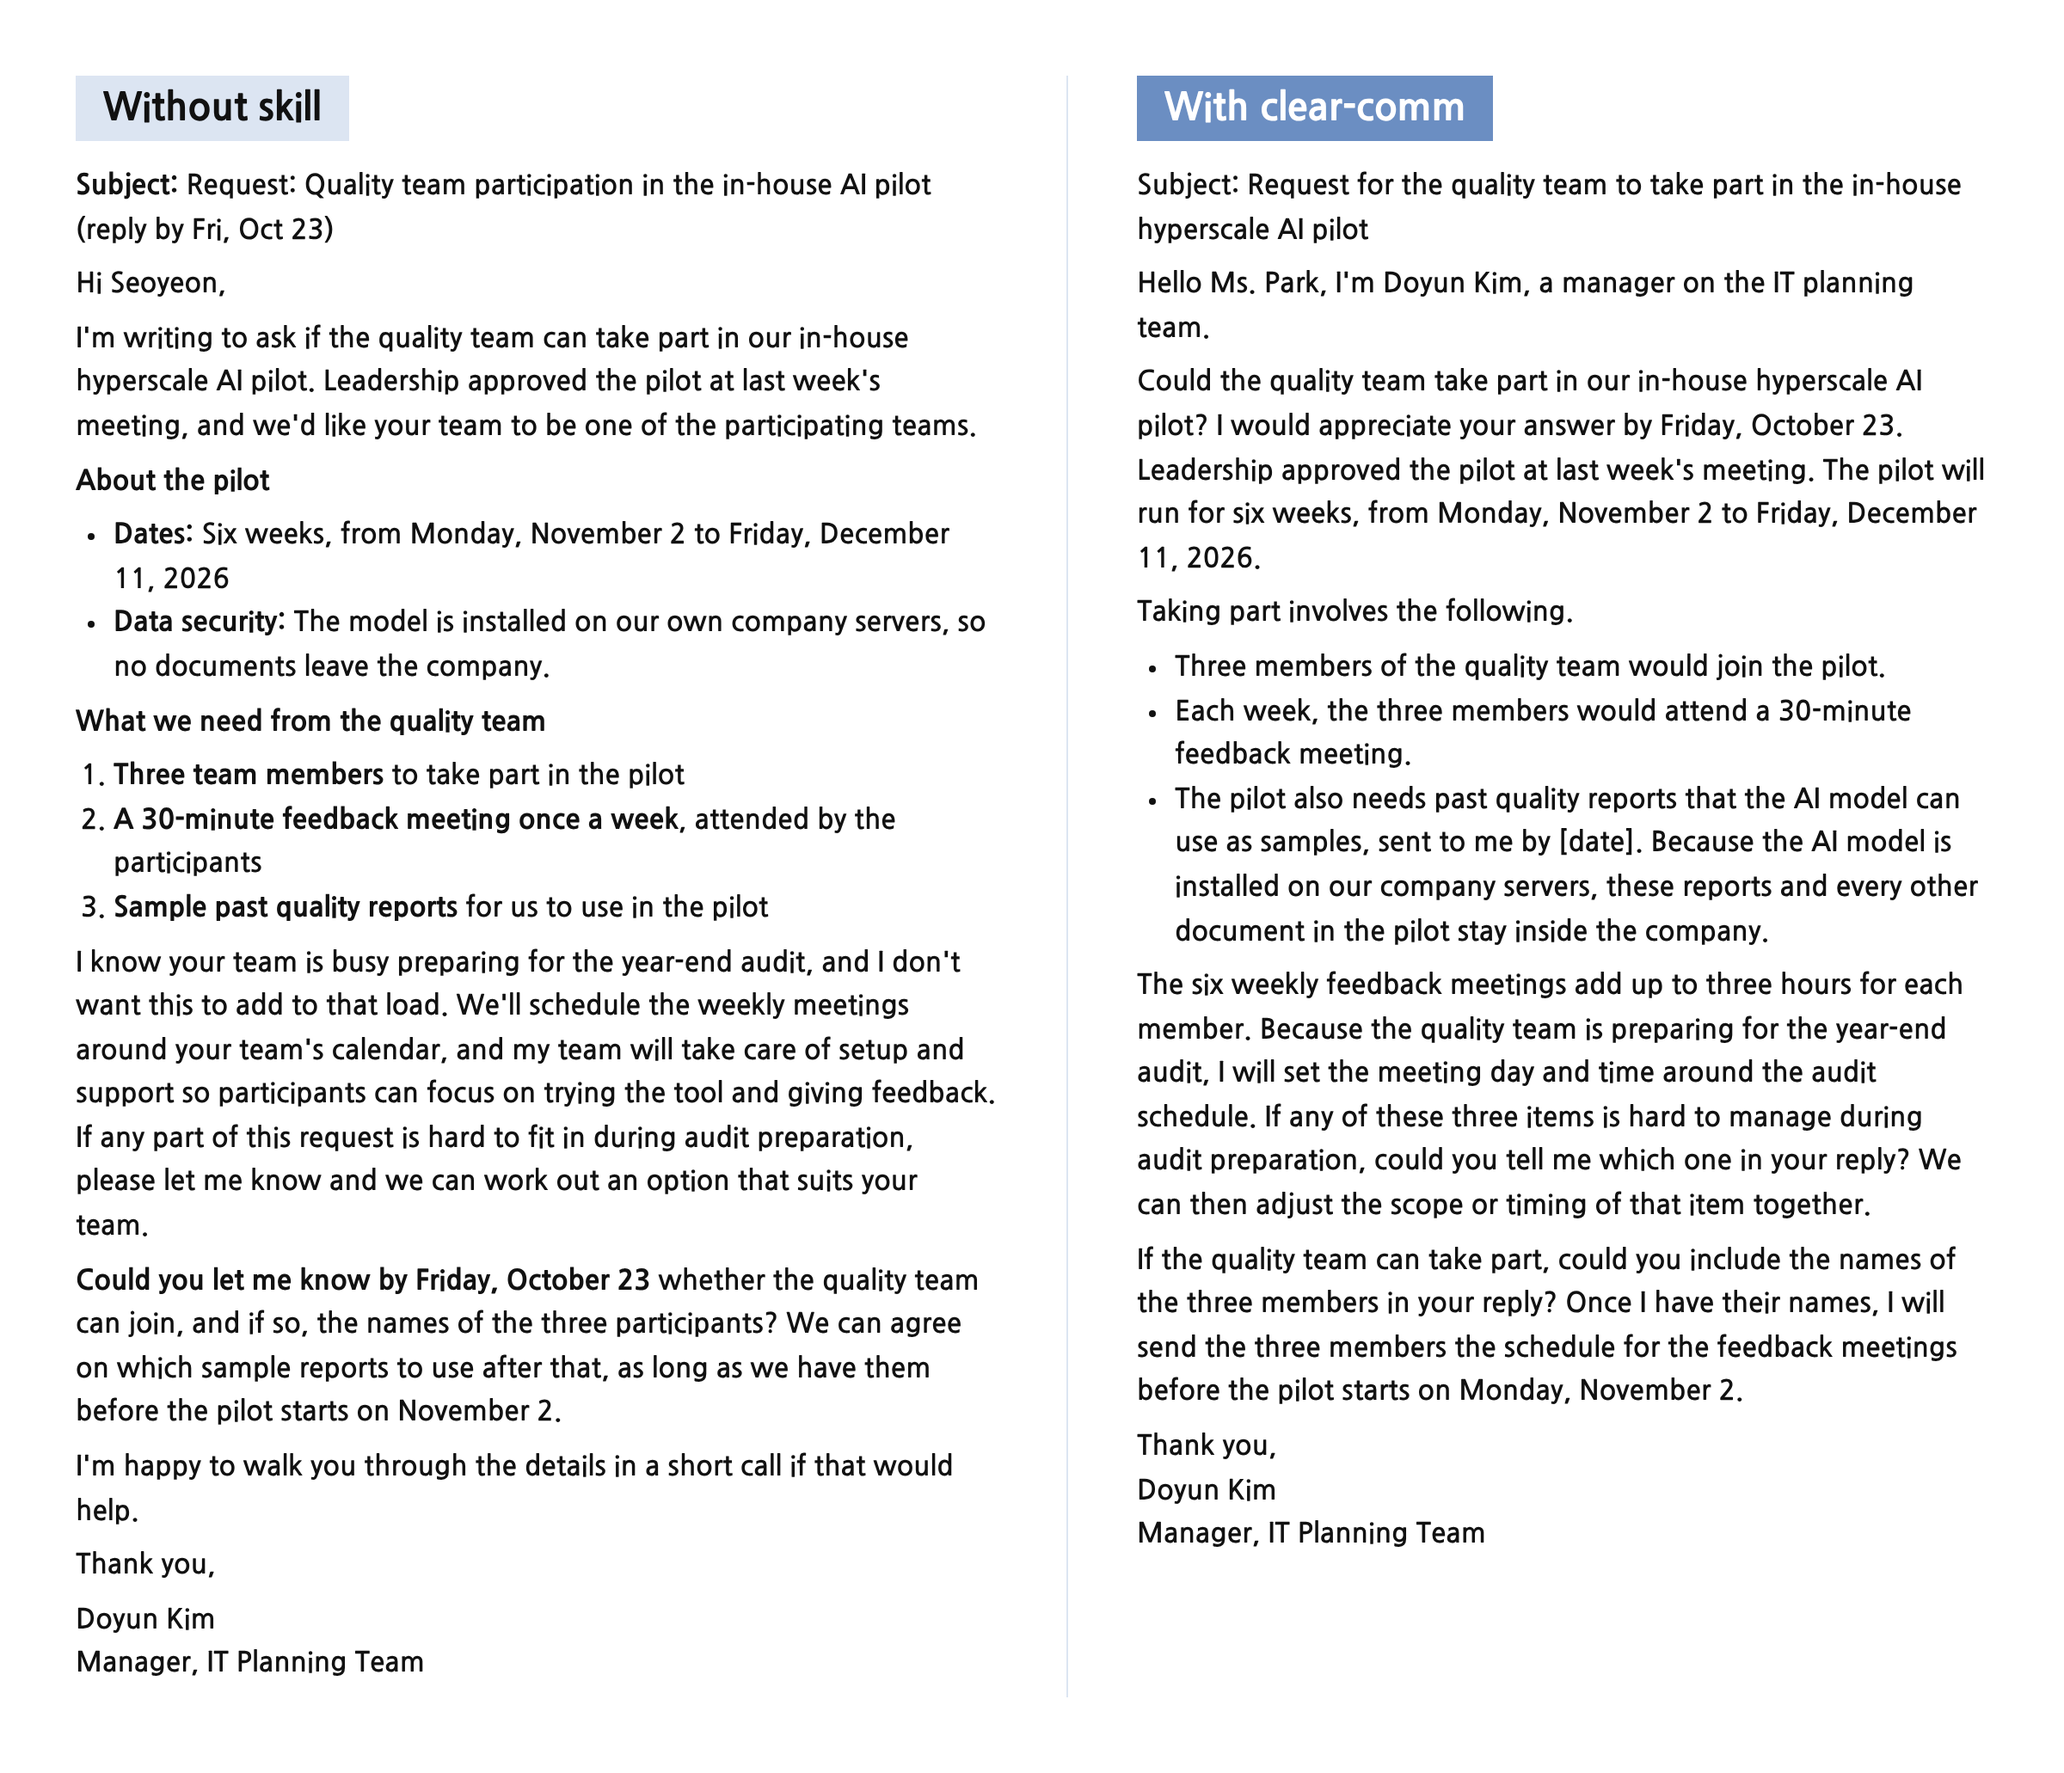
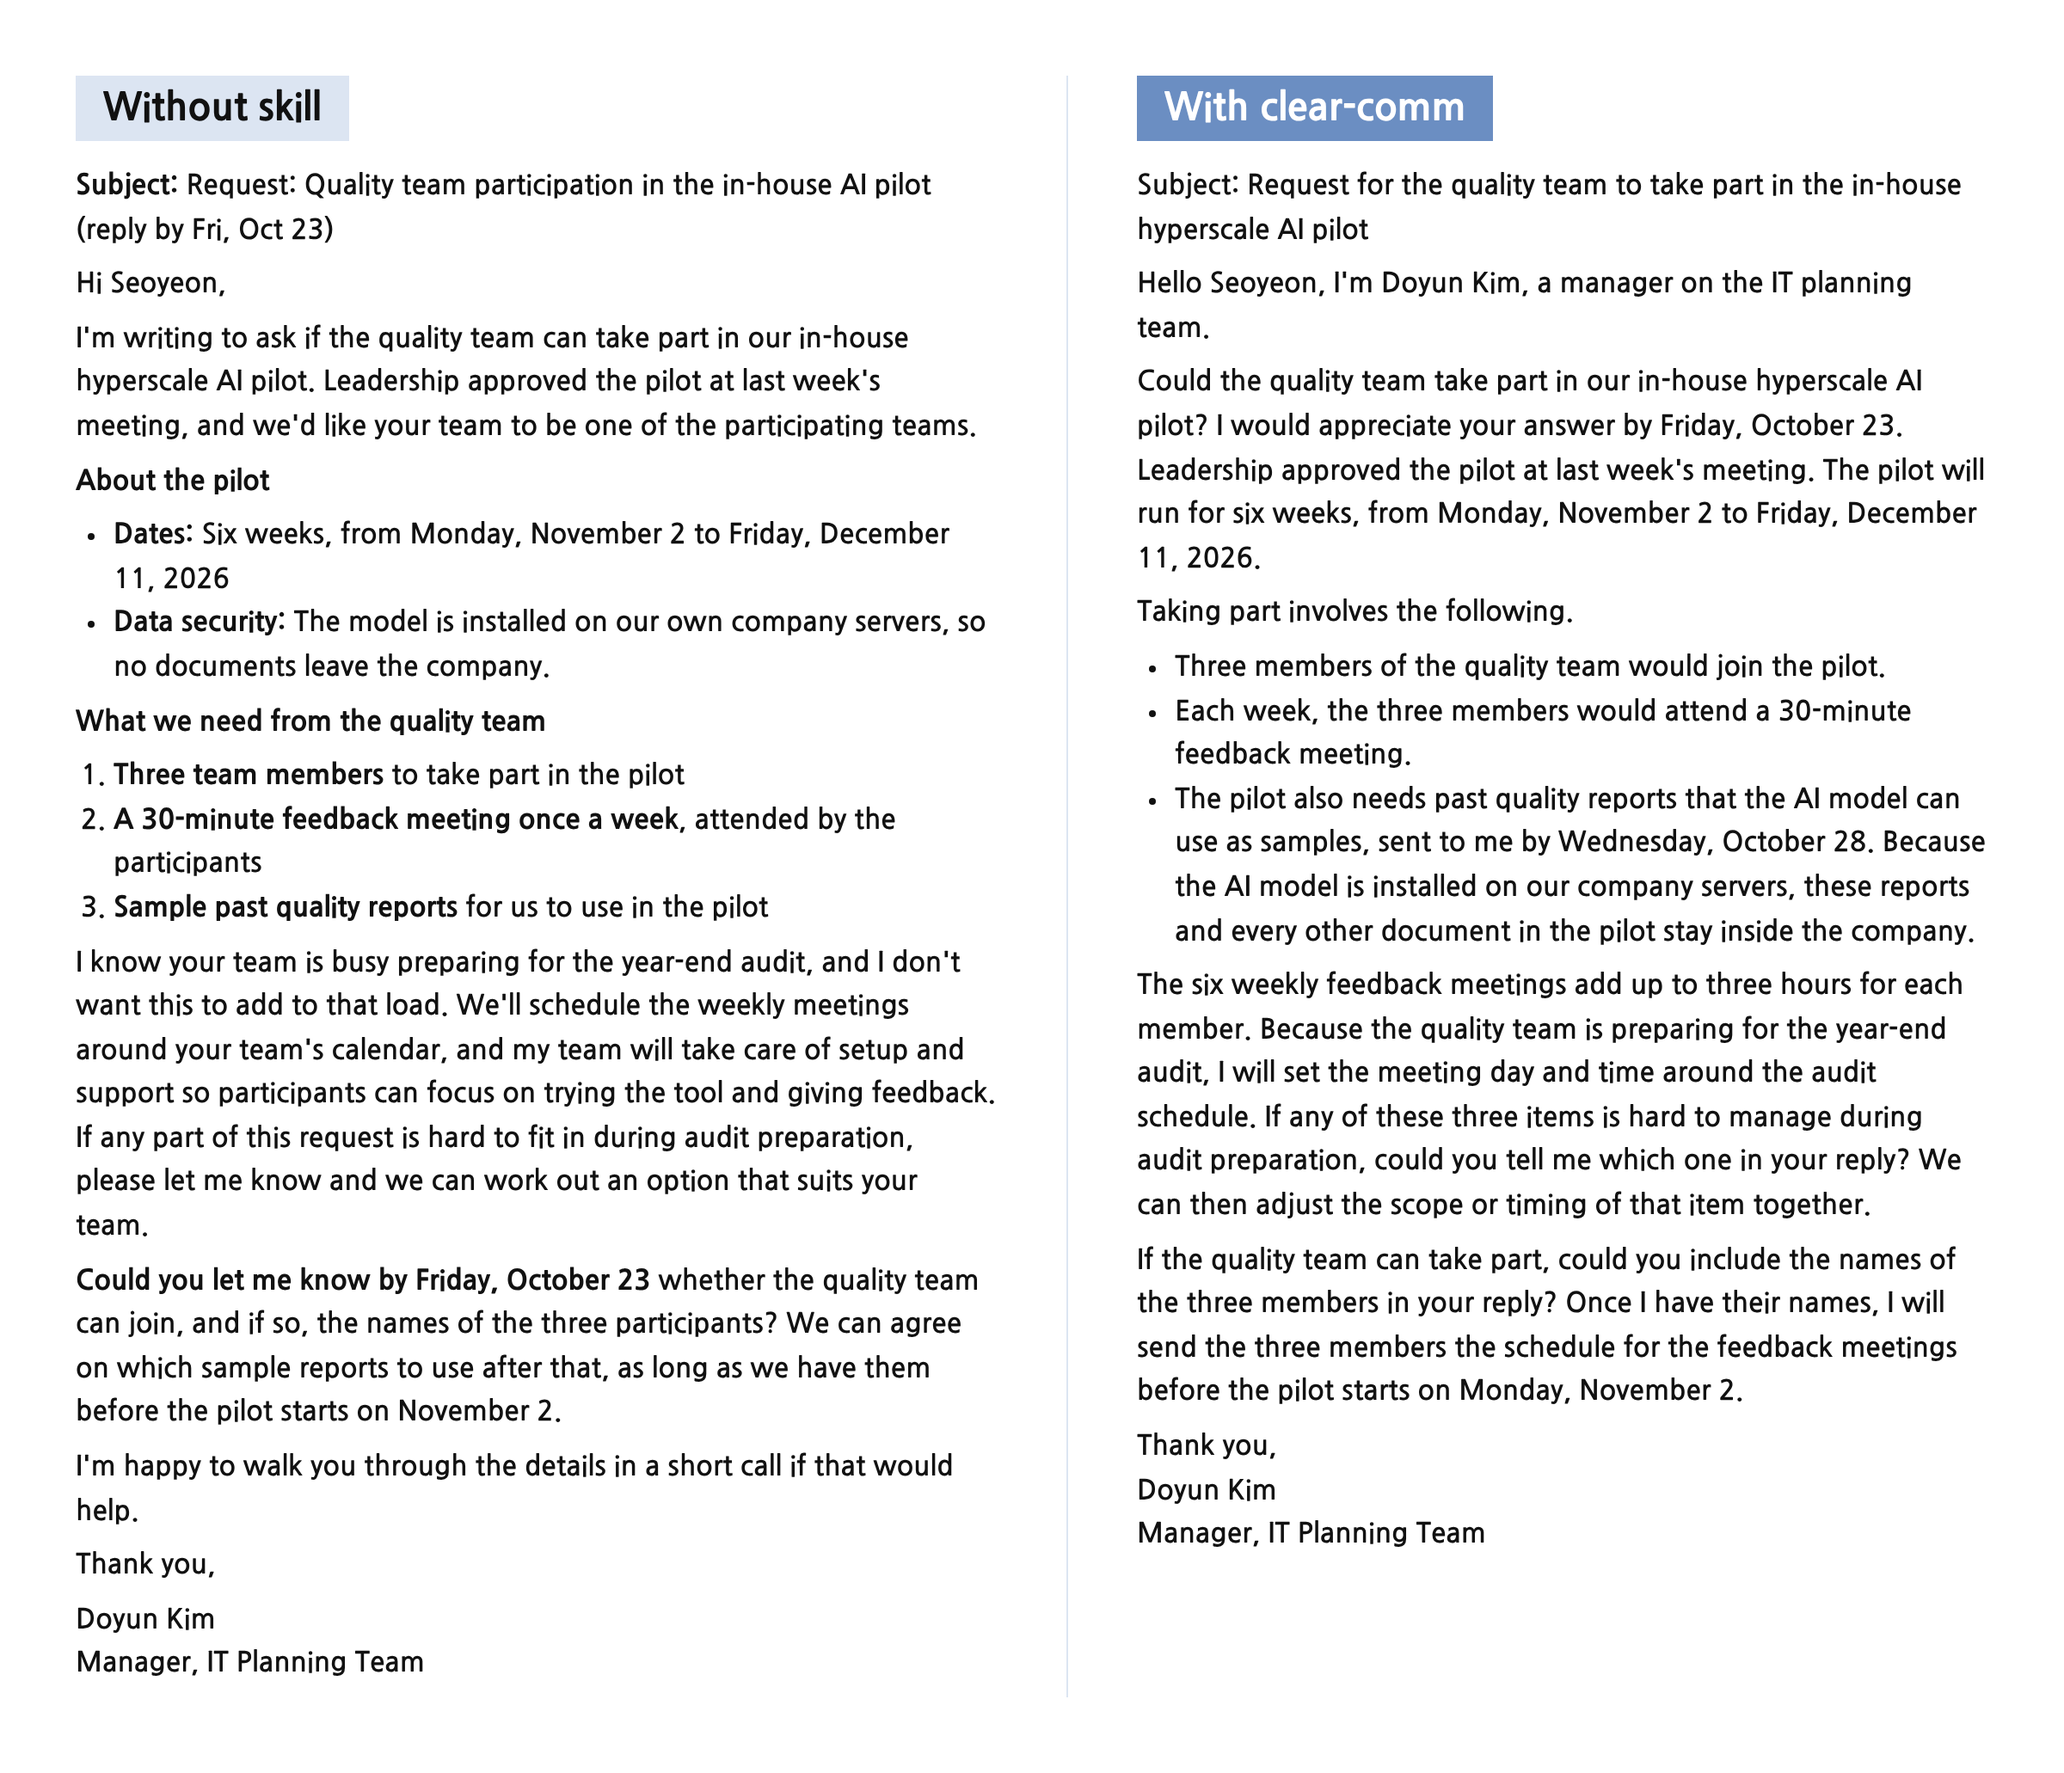
Fill placeholders in skill-applied demo outputs
- clear-comm: concrete report count and due date, neutral greeting
- anti-slop: drop [Company Name] from the English title
- onto-mece: drop the [New] marker from the English TOC
- Re-render the affected compare images

Claude-Session: https://claude.ai/code/session_01GGLbaL65V7p6PFmonQcYHU

Changed region(s): [[0.5625, 0.4656, 0.9688, 0.5276], [0.5938, 0.1552, 0.9375, 0.1862]]

diff --git a/skills/clear-comm/demo/en/after.md b/skills/clear-comm/demo/en/after.md
@@ -1,6 +1,6 @@
 Subject: Request for the quality team to take part in the in-house hyperscale AI pilot
 
-Hello Ms. Park, I'm Doyun Kim, a manager on the IT planning team.
+Hello Seoyeon, I'm Doyun Kim, a manager on the IT planning team.
 
 Could the quality team take part in our in-house hyperscale AI pilot? I would appreciate your answer by Friday, October 23. Leadership approved the pilot at last week's meeting. The pilot will run for six weeks, from Monday, November 2 to Friday, December 11, 2026.
 
@@ -8,7 +8,7 @@ Taking part involves the following.
 
 - Three members of the quality team would join the pilot.
 - Each week, the three members would attend a 30-minute feedback meeting.
-- The pilot also needs past quality reports that the AI model can use as samples, sent to me by [date]. Because the AI model is installed on our company servers, these reports and every other document in the pilot stay inside the company.
+- The pilot also needs past quality reports that the AI model can use as samples, sent to me by Wednesday, October 28. Because the AI model is installed on our company servers, these reports and every other document in the pilot stay inside the company.
 
 The six weekly feedback meetings add up to three hours for each member. Because the quality team is preparing for the year-end audit, I will set the meeting day and time around the audit schedule. If any of these three items is hard to manage during audit preparation, could you tell me which one in your reply? We can then adjust the scope or timing of that item together.
 

diff --git a/skills/clear-comm/demo/ko/after.md b/skills/clear-comm/demo/ko/after.md
@@ -6,7 +6,7 @@
 
 - (참여 인원) 품질팀 팀원 3명이 시범 운영에 참여합니다.
 - (피드백 회의) 참여하는 팀원이 매주 한 번 30분 동안 피드백 회의에 참석합니다. 6주를 합치면 회의 시간은 3시간입니다.
-- (보고서 샘플) 시범 운영에 쓸 샘플로 이미 작성한 품질 보고서 OO건을 원본 그대로 OO월 OO일(O)까지 저에게 보내 주시면 됩니다. 사내 초거대AI는 회사 서버에 설치해 운영하므로 보내 주신 보고서는 회사 밖으로 나가지 않습니다.
+- (보고서 샘플) 시범 운영에 쓸 샘플로 이미 작성한 품질 보고서 20건을 원본 그대로 10월 28일(수)까지 저에게 보내 주시면 됩니다. 사내 초거대AI는 회사 서버에 설치해 운영하므로 보내 주신 보고서는 회사 밖으로 나가지 않습니다.
 
 연말 감사를 준비하시는 시기와 시범 운영이 겹치므로 피드백 회의의 요일과 시간은 품질팀 일정에 맞춰 정하겠습니다. 참여가 확정되면 시범 운영이 시작되는 11월 2일(월) 전에 참여하는 팀원께 사내 초거대AI의 사용 방법과 피드백 회의의 일정을 안내하겠습니다.
 

diff --git a/skills/onto-mece/demo/en/after.md b/skills/onto-mece/demo/en/after.md
@@ -13,7 +13,7 @@
 
 ### 3. Talent (people who build and run AI)
 - Training advanced talent at master's and PhD level
-- [New] Training working-level engineers who build and run services on hyperscale models
+- Training working-level engineers who build and run services on hyperscale models
 
 ## II. Demand (who adopts what Part I produces, by adopter)
 

diff --git a/skills/anti-slop/demo/en/after.md b/skills/anti-slop/demo/en/after.md
@@ -1,4 +1,4 @@
-# [Company Name] to adopt hyperscale AI with its risks managed
+# Hyperscale AI to be adopted with its risks managed
 
 > (Hyperscale AI) AI models with hundreds of billions of parameters (values a model adjusts during training to fit patterns in data), trained on large volumes of data
 
